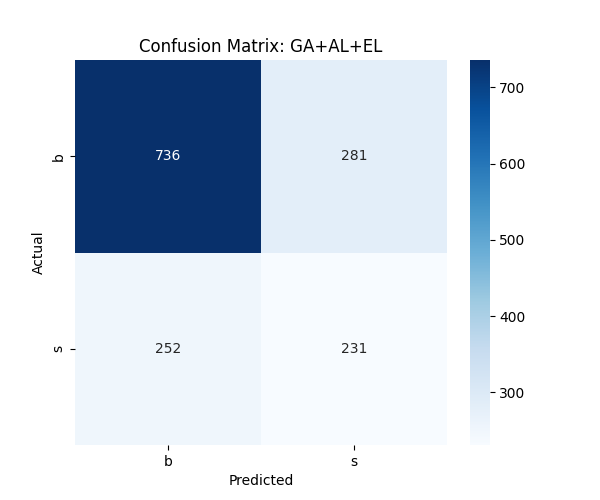
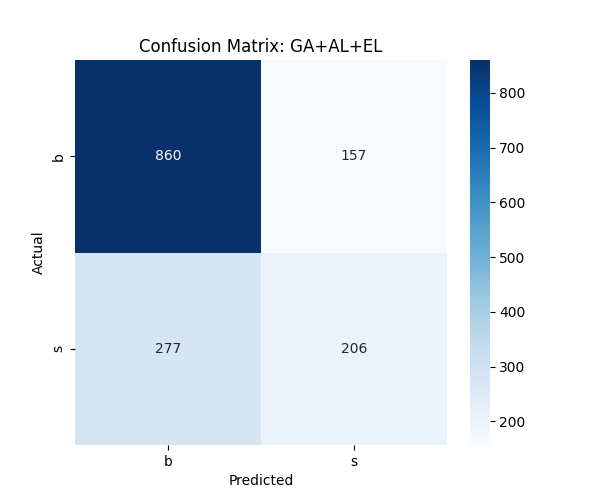
1st analysis improvement

diff --git a/comparative_analysis.py b/comparative_analysis.py
@@ -102,8 +102,8 @@ def main():
     
     results = {}
 
-    # 1. GA (Baseline)
-    print("\n>>> Running GA (Baseline)...")
+    # 1. GA (Baseline - Full Data)
+    print("\n>>> Running GA (Baseline - Full Data)...")
     start_time = time.time()
     pop_ga, _, hof_ga = run_ga(X_train_scaled, y_train.values, pset, toolbox, n_gen=n_gen, pop_size=pop_size)
     elapsed_ga = time.time() - start_time
@@ -113,7 +113,23 @@ def main():
     preds_ga = [1 if func_ga(*p) > 0 else 0 for p in X_test_scaled]
     results['GA'] = evaluate_model(y_test_vals, preds_ga, elapsed_ga)
 
-    # 2. GA + AL
+    # 2. Random Sampling (Baseline - Limited Data)
+    print("\n>>> Running Random Sampling (Baseline - Limited Data)...")
+    n_al_total = 260 # 200 initial + 3 steps * 20 instances
+    indices = np.random.choice(len(X_train_scaled), n_al_total, replace=False)
+    X_train_random = X_train_scaled[indices]
+    y_train_random = y_train.values[indices]
+    
+    start_time = time.time()
+    _, _, hof_random = run_ga(X_train_random, y_train_random, pset, toolbox, n_gen=n_gen, pop_size=pop_size)
+    elapsed_random = time.time() - start_time
+    
+    best_ind_random = hof_random[0]
+    func_random = toolbox.compile(expr=best_ind_random)
+    preds_random = [1 if func_random(*p) > 0 else 0 for p in X_test_scaled]
+    results['Random'] = evaluate_model(y_test_vals, preds_random, elapsed_random)
+
+    # 3. GA + AL
     print("\n>>> Running GA + Active Learning...")
     # Setup for AL
     n_initial = 200

diff --git a/experiment/report.md b/experiment/report.md
@@ -4,6 +4,7 @@
 
 | Method | Accuracy | Precision | Recall | F1-Score | Time (s) |
 |--------|----------|-----------|--------|----------|----------|
-| GA | 0.7027 | 0.5348 | 0.5880 | 0.5602 | 4.85 |
-| GA+AL | 0.6807 | 0.5087 | 0.2422 | 0.3282 | 0.58 |
-| GA+AL+EL | 0.6447 | 0.4512 | 0.4783 | 0.4643 | 0.68 |
+| GA | 0.6907 | 0.5463 | 0.2319 | 0.3256 | 5.30 |
+| Random | 0.6453 | 0.4222 | 0.2754 | 0.3333 | 0.59 |
+| GA+AL | 0.7120 | 0.5389 | 0.7308 | 0.6204 | 0.59 |
+| GA+AL+EL | 0.7107 | 0.5675 | 0.4265 | 0.4870 | 0.68 |
